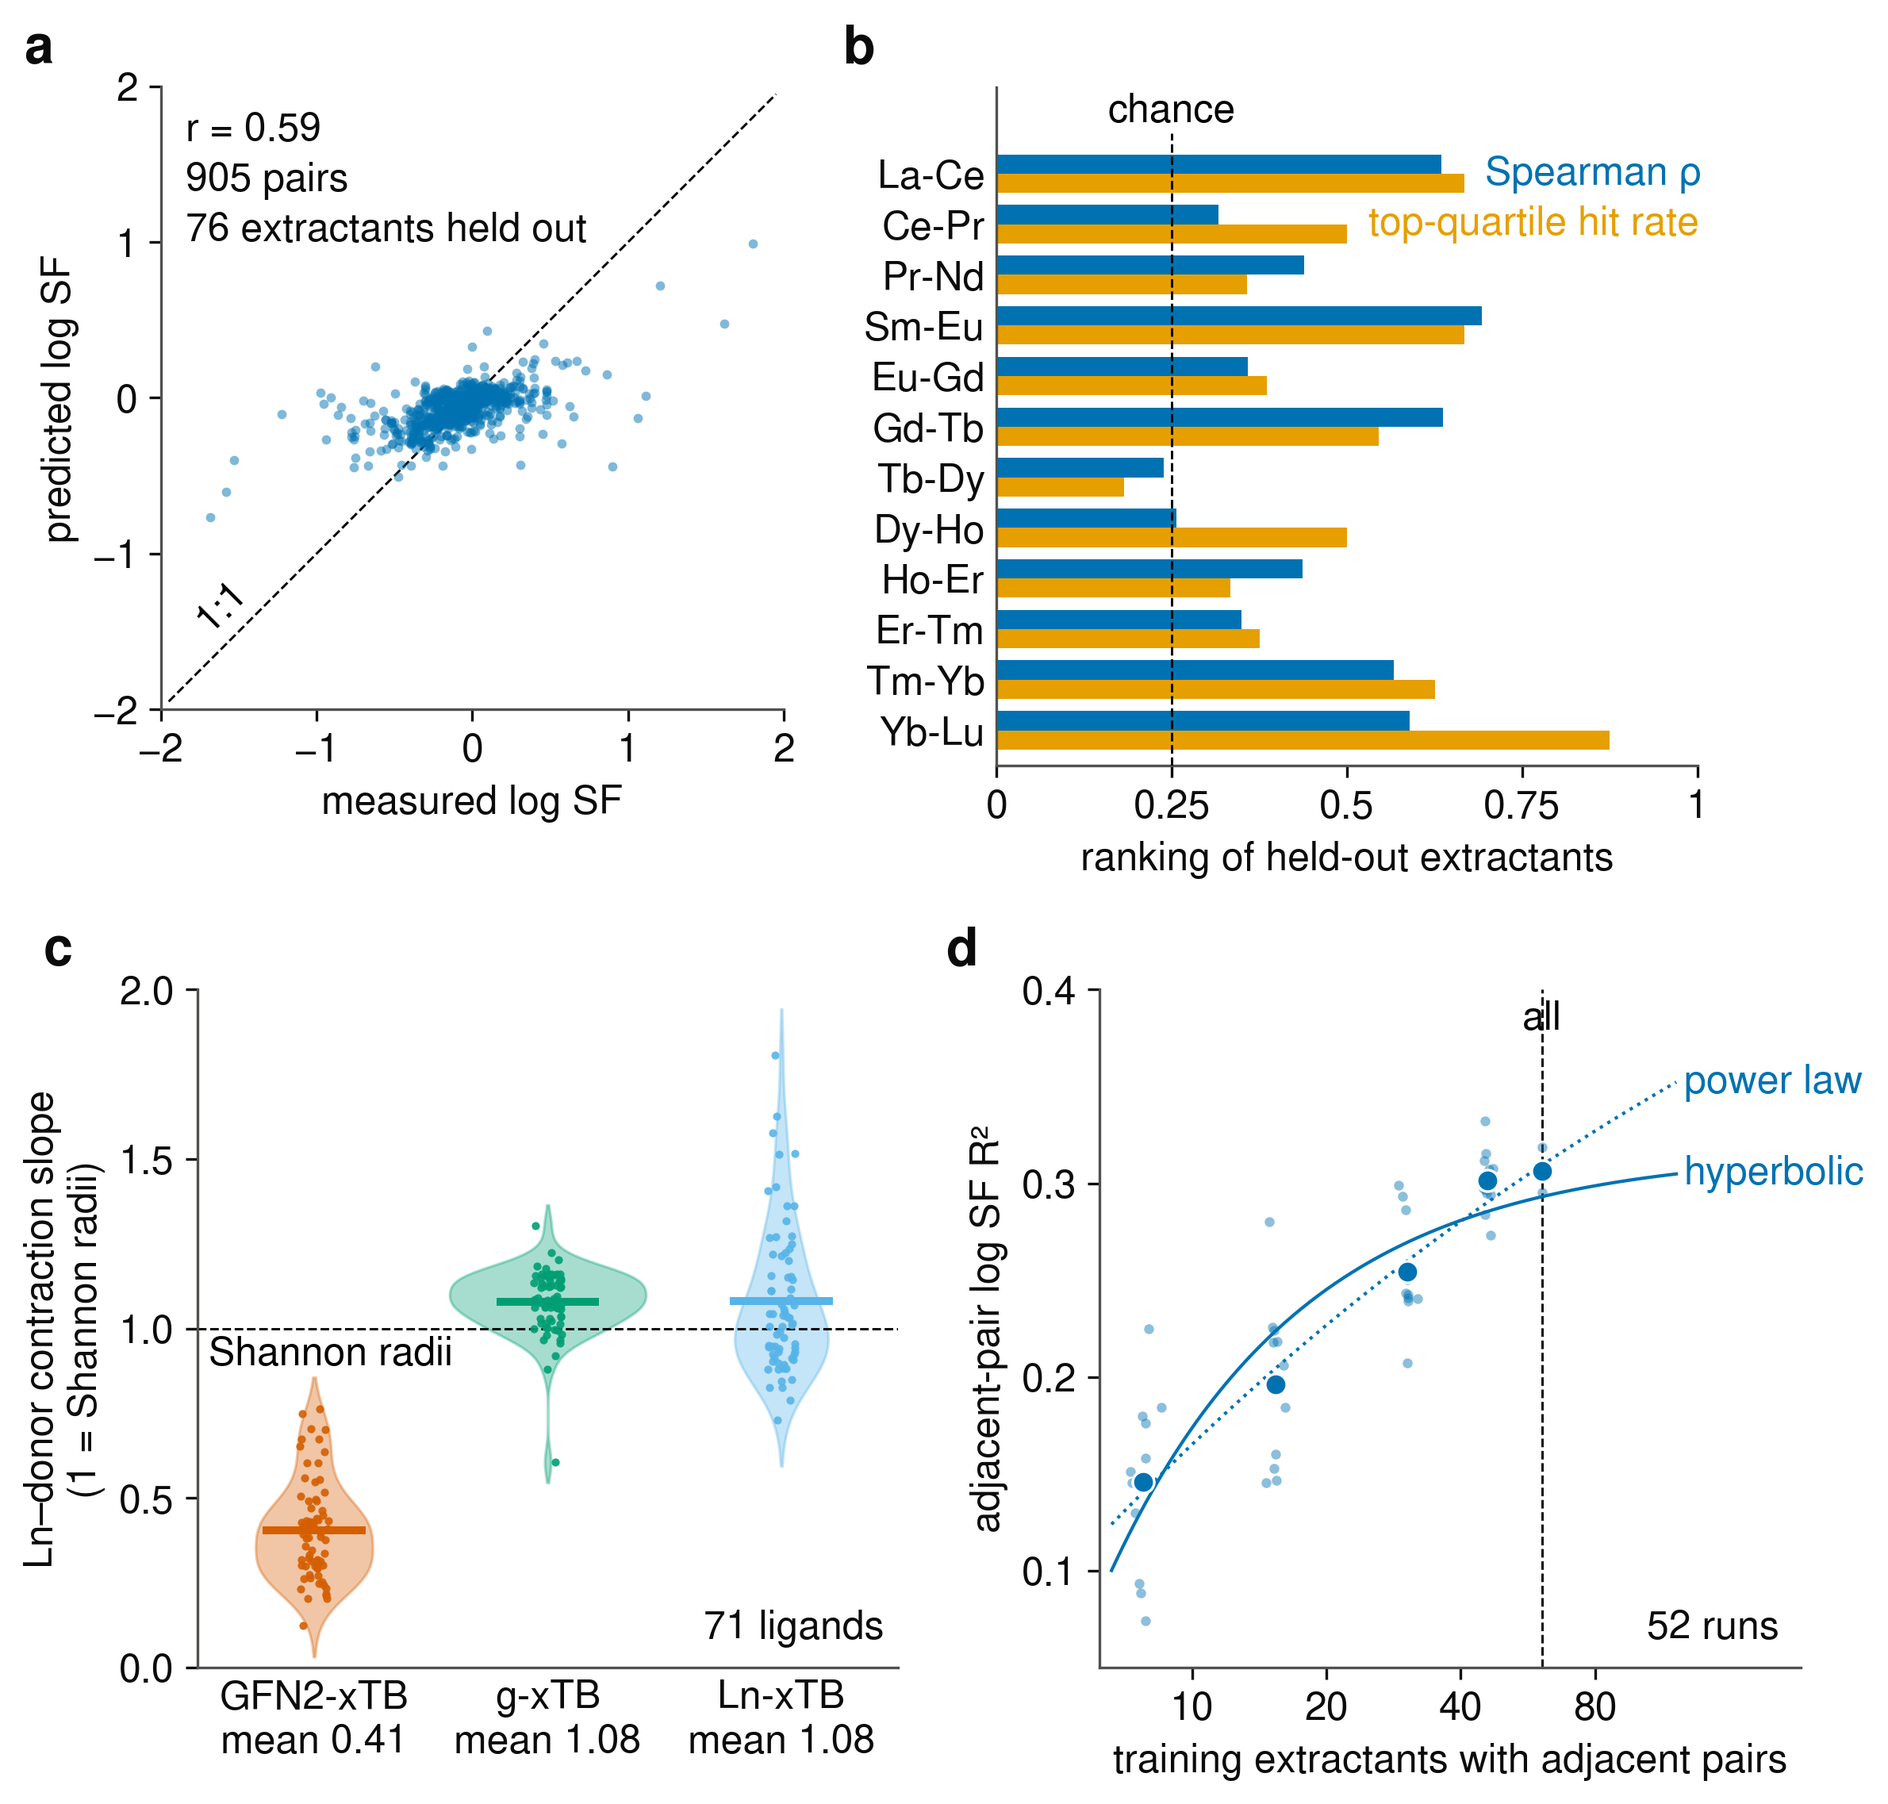
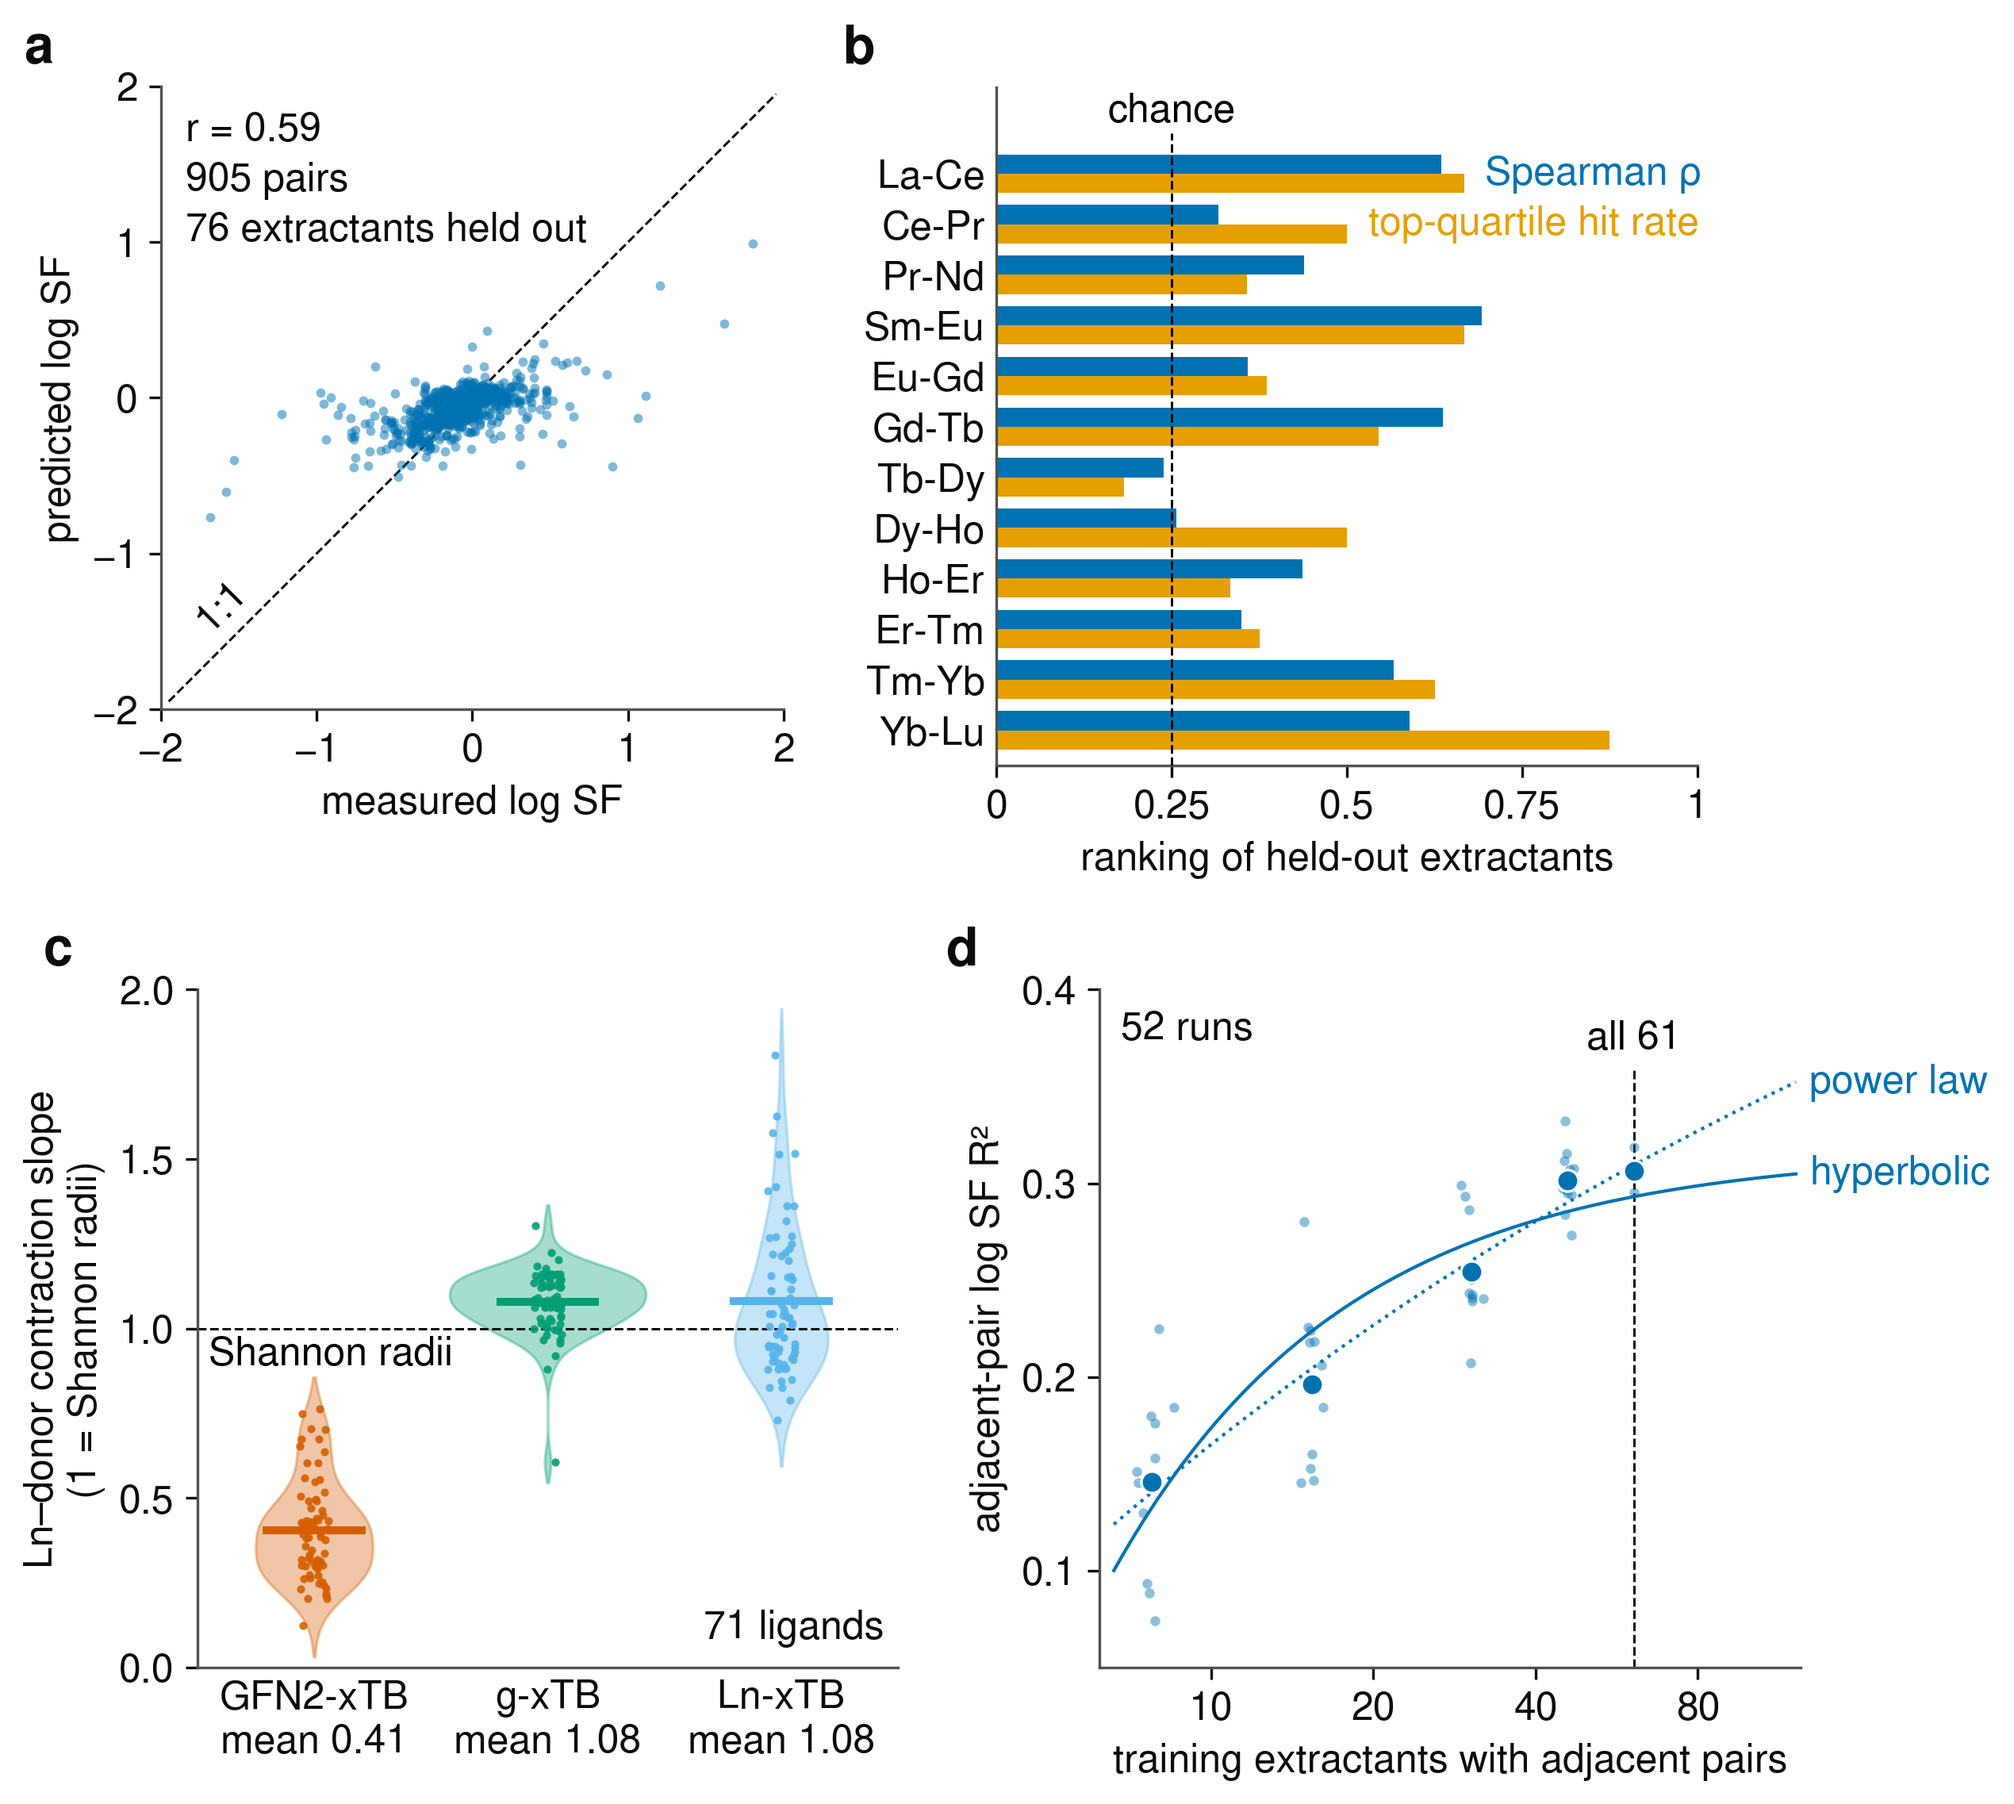
MoML figure, learning-curve panel: full-data line stops below its 'all 61' label, fit names outside the right edge of the axes, run count in the empty upper-left corner

diff --git a/docs/moml_2026/make_figures.py b/docs/moml_2026/make_figures.py
@@ -191,16 +191,18 @@ def fig3(ch=None):
     y_p = pw["R_inf"] - pw["k"] * xx ** (-pw["c"])
     ax.plot(xx, y_h, color=col, lw=1.0, ls="-", zorder=3)
     ax.plot(xx, y_p, color=col, lw=1.0, ls=":", zorder=3)
-    ax.text(xx[-1] * 1.04, y_h[-1], "hyperbolic", va="center", ha="left", color=col)
-    ax.text(xx[-1] * 1.04, y_p[-1], "power law", va="center", ha="left", color=col)
-    ax.axvline(n_full, ls="--", lw=0.7, color=fs.OI["black"], zorder=1)
-    ax.text(n_full, 0.375, "all", ha="center", va="bottom", color=fs.OI["black"])
-    ax.set_xscale("log"); ax.set_xlim(pts.n.min() * 0.8, 2.0 * n_full * 1.9)
+    # fit names just outside the right edge of the axes, on their lines' level
+    ax.text(xx[-1] * 1.06, y_h[-1], "hyperbolic", va="center", ha="left", color=col, clip_on=False)
+    ax.text(xx[-1] * 1.06, y_p[-1], "power law", va="center", ha="left", color=col, clip_on=False)
+    # full-data line stops below its label so the two never touch
+    ax.vlines(n_full, 0.05, 0.36, ls="--", lw=0.7, color=fs.OI["black"], zorder=1)
+    ax.text(n_full, 0.365, f"all {n_full:.0f}", ha="center", va="bottom", color=fs.OI["black"])
+    ax.set_xscale("log"); ax.set_xlim(pts.n.min() * 0.8, 2.0 * n_full * 1.02)
     ax.set_xticks([10, 20, 40, 80]); ax.set_xticklabels(["10", "20", "40", "80"]); ax.minorticks_off()
     ax.set_ylim(0.05, 0.40); ax.set_yticks([0.1, 0.2, 0.3, 0.4])
     ax.set_xlabel("training extractants with adjacent pairs")
     ax.set_ylabel("adjacent-pair log SF R²")
-    ax.text(0.97, 0.03, f"{len(R)} runs", transform=ax.transAxes, ha="right", va="bottom")
+    ax.text(0.03, 0.97, f"{len(R)} runs", transform=ax.transAxes, ha="left", va="top")
     letter(ax, ch)
     fs.finish(fig, "fig3_learning_curve")
     return F["verdict"]
